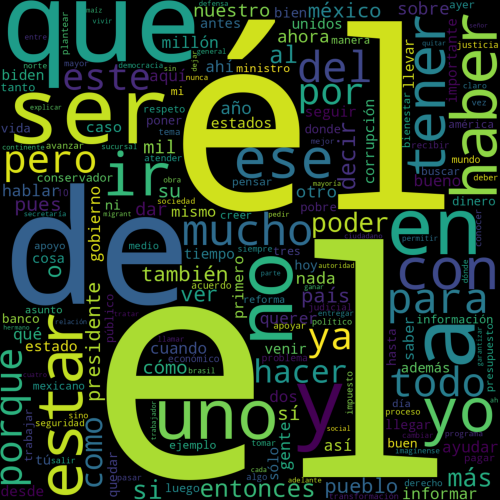
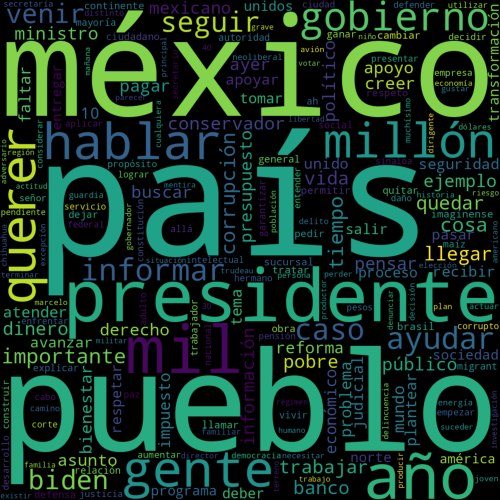
add better stopwords

diff --git a/Models/word.py b/Models/word.py
@@ -2,6 +2,7 @@ import plotly.express as px
 from nltk.corpus import stopwords
 from nltk import word_tokenize
 import plotly.express as px
+
 # Lovecraft
 import pandas as pd
 from nltk.util import ngrams
@@ -11,13 +12,17 @@ import matplotlib.pyplot as plt
 import streamlit as st
 import re
 import spacy
+import text_procesing
+from spacy.lang.es.stop_words import STOP_WORDS
 
-
-nlp = spacy.load('es_core_news_lg')
-stopword_es = stopwords.words('spanish')
+nlp = spacy.load("es_core_news_lg")
+stopword_es = stopwords.words("spanish")
 # from Models import text_procesing
 import text_procesing
-df = pd.read_csv("clean_amlo.csv")
+
+df = pd.read_csv("amlo.csv")
+
+df["clean"] = df["Texto"].apply(text_procesing.clean_text)
 
 
 def get_ngrams(n, columna):
@@ -32,34 +37,40 @@ def get_ngrams(n, columna):
                 vocab.append(result)
     return pd.Series(vocab).value_counts()  # convert the list into array
 
+
 def create_graph(resultado):
     wordcloud = WordCloud(
-    width=1200,
-    height=1200,
-    background_color="black",
-    stopwords=stopword_es,
-    collocations=False,
-    min_font_size=6,
-).generate_from_frequencies(resultado)
+        width=1200,
+        height=1200,
+        background_color="black",
+        stopwords=stopword_es,
+        collocations=False,
+        min_font_size=6,
+    ).generate_from_frequencies(resultado)
     plt.figure(figsize=(5, 5))
     plt.imshow(wordcloud)
     plt.axis("off")
     plt.tight_layout(pad=0)
-    plt.savefig('word_cloud.png')
+    plt.savefig("word_cloud.png")
+
 
 def clean_text(texto):
-  textofin = texto.lower()
-  textofin = re.sub(r'([^0-9A-Za-z-À-ÿ \t])','', textofin,)
-  textofin = nlp(textofin)
-  lema = []
-  for token in textofin:
-    lema.append(token.lemma_)
+    textofin = texto.lower()
+    textofin = re.sub(
+        r"([^0-9A-Za-z-À-ÿ \t])",
+        "",
+        textofin,
+    )
+    textofin = nlp(textofin)
+    lema = []
+    for token in textofin:
+        lema.append(token.lemma_)
 
-  textofin = lema
-  textofin = ' '.join(textofin)
-  return textofin
+    textofin = lema
+    textofin = " ".join(textofin)
+    return textofin
 
 
-#df['clean'] =df['Texto'].apply(clean_text)
-#df.to_csv("clean_amlo.csv")
+# df['clean'] =df['Texto'].apply(clean_text)
+# df.to_csv("clean_amlo.csv")
 create_graph(dict(get_ngrams(1, df["clean"])))

diff --git a/Models/text_procesing.py b/Models/text_procesing.py
@@ -1,9 +1,9 @@
-
-# Tool from text processing  
+# Tool from text processing
 import nltk
 from nltk.corpus import stopwords
+from spacy.lang.es.stop_words import STOP_WORDS
 
-# Tool  
+# Tool
 import spacy
 import pandas as pd
 
@@ -12,46 +12,48 @@ import re
 
 df = pd.read_csv("amlo.csv")
 
-stop_words_es = stopwords.words('spanish')
+stop_words_es = stopwords.words("spanish")
 
 
-nlp = spacy.load('es_core_news_lg')
+nlp = spacy.load("es_core_news_lg")
 
 
 def return_dataframe():
-
-    df['cla_num'] = df['Clasificacion'].apply(clasification_to_num)
-    df['Texto_limpio'] = df['Texto'].apply(clean_text)
+    df["cla_num"] = df["Clasificacion"].apply(clasification_to_num)
+    df["Texto_limpio"] = df["Texto"].apply(clean_text)
     return df
 
 
+# fn to clean text
 
-# fn to clean text 
 
 def clean_text(texto):
-  textofin = texto.lower()
-  textofin = re.sub(r'([^0-9A-Za-z-À-ÿ \t])','', textofin,)
-  textofin = nlp(textofin)
-  lema = []
-  for token in textofin:
-    lema.append(token.lemma_)
-  textofin = lema
-  textofin = ' '.join(textofin)
-  return textofin
-  
+    textofin = texto.lower()
+    textofin = re.sub(
+        r"([^0-9A-Za-z-À-ÿ \t])",
+        "",
+        textofin,
+    )
+    textofin = nlp(textofin)
+    lema = []
+    for token in textofin:
+        lema.append(token.lemma_)
+    textofin = lema
+    textofin = [palabra for palabra in textofin if palabra not in STOP_WORDS]
+    textofin = " ".join(textofin)
+    return textofin
+
+
 def clasification_to_num(text):
-    if text == 'exterior':
+    if text == "exterior":
         return 0
-    elif text == 'economia':
+    elif text == "economia":
         return 1
-    elif text == 'opinion' :
+    elif text == "opinion":
         return 2
-    elif text == 'competencia':
+    elif text == "competencia":
         return 3
-    elif text == 'apoyo':
+    elif text == "apoyo":
         return 4
-    elif text == 'seguridad':
+    elif text == "seguridad":
         return 5
-  
-
-
